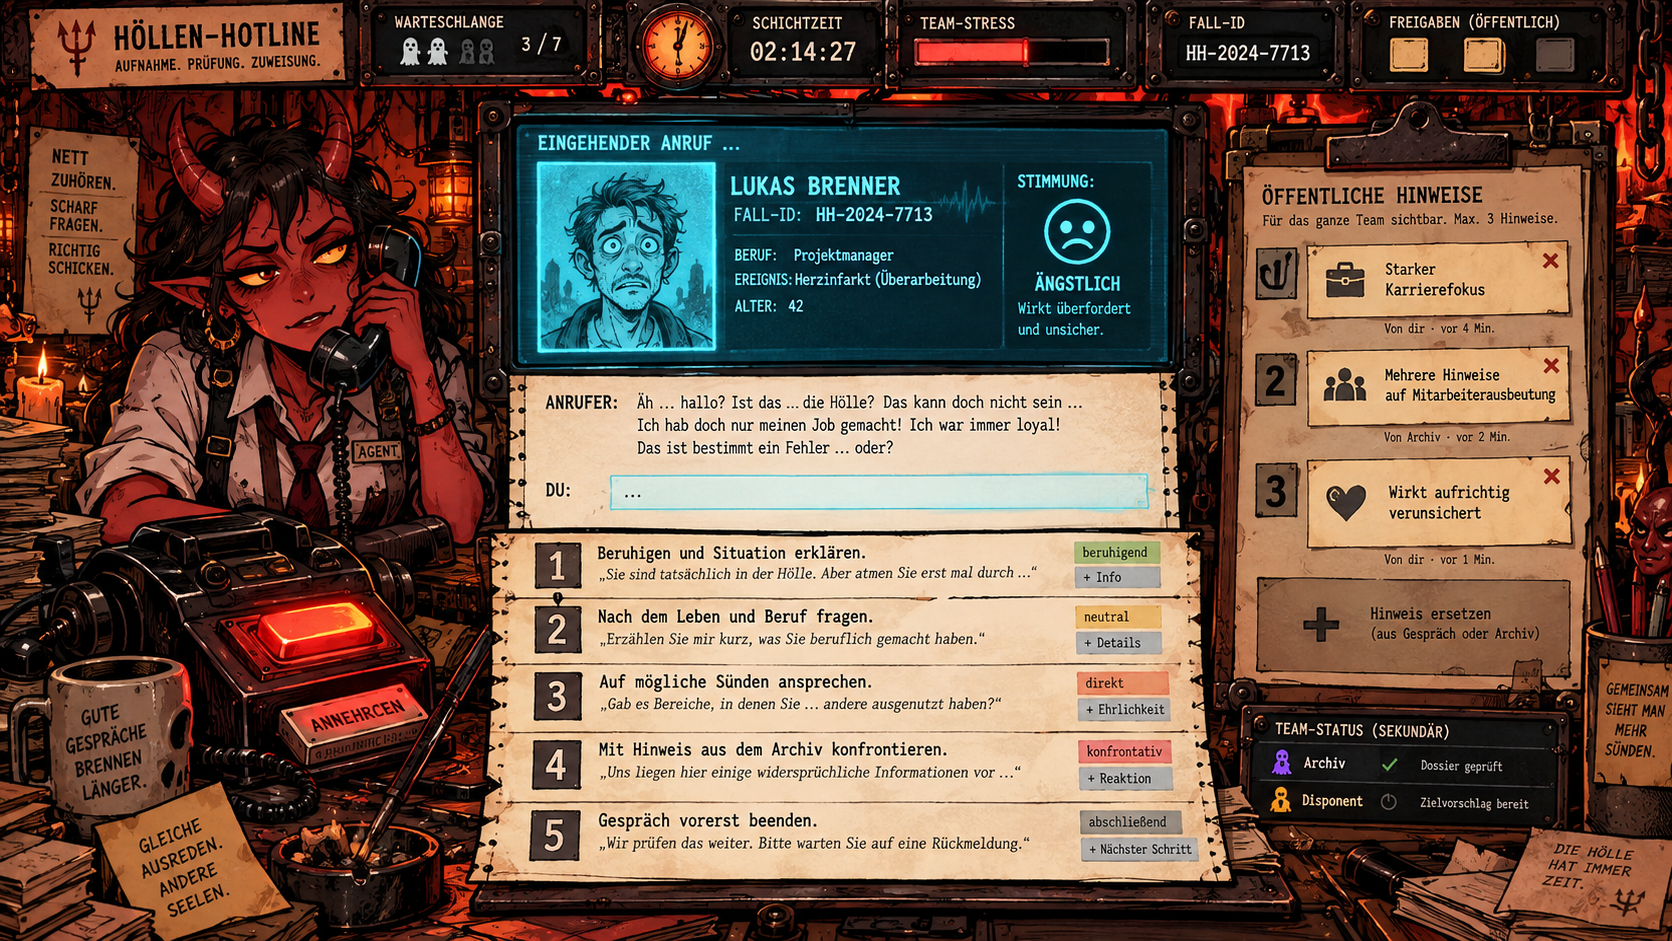
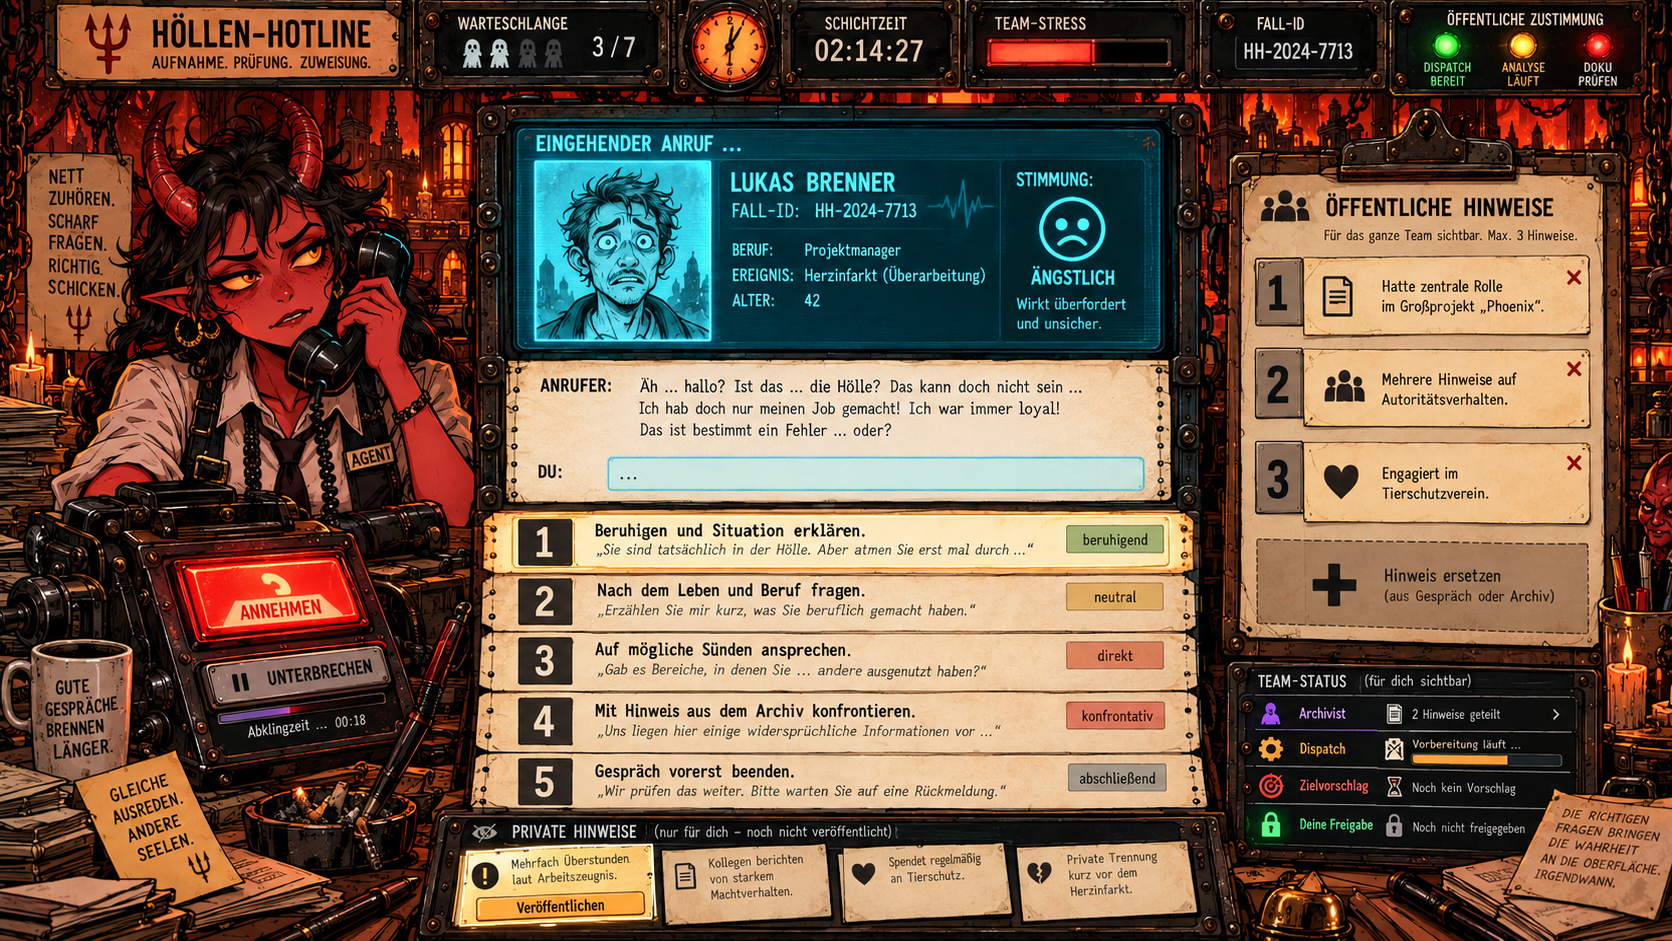
Update the lobby

diff --git a/src/game/presentation/lobbyRoom.ts b/src/game/presentation/lobbyRoom.ts
@@ -83,6 +83,36 @@ function ensureLavaTexture(scene: Phaser.Scene): string {
   return key;
 }
 
+function edgeConduit(
+  scene: Phaser.Scene,
+  parent: Phaser.GameObjects.Container,
+  x: number,
+): void {
+  const shaft = scene.add.graphics();
+  shaft.lineStyle(94, 0x09070c, 0.78);
+  shaft.lineBetween(x, 352, x, 1080);
+  shaft.lineStyle(69, 0x21181b);
+  shaft.lineBetween(x, 352, x, 1080);
+  shaft.lineStyle(55, 0x49302d);
+  shaft.lineBetween(x, 352, x, 1080);
+  shaft.lineStyle(35, 0x261c20);
+  shaft.lineBetween(x + 5, 352, x + 5, 1080);
+  shaft.lineStyle(5, 0xa95032, 0.75);
+  shaft.lineBetween(x - 22, 352, x - 22, 1080);
+  for (const y of [490, 698, 906]) {
+    shaft.fillStyle(0x140d13);
+    shaft.fillRoundedRect(x - 46, y - 17, 92, 34, 7);
+    shaft.fillStyle(0x50332e);
+    shaft.fillRoundedRect(x - 40, y - 13, 80, 26, 5);
+    shaft.lineStyle(3, 0xa95032, 0.7);
+    shaft.lineBetween(x - 35, y - 10, x + 35, y - 10);
+    shaft.fillStyle(0xb9673d);
+    shaft.fillCircle(x - 28, y, 3);
+    shaft.fillCircle(x + 28, y, 3);
+  }
+  parent.add(shaft);
+}
+
 function addLogo(
   scene: Phaser.Scene,
   parent: Phaser.GameObjects.Container,
@@ -91,72 +121,27 @@ function addLogo(
   waiting: Phaser.GameObjects.Container;
 } {
   const root = scene.add.container(960, 174);
-  const plate = scene.add.graphics();
-  plate.fillStyle(0x0b070c, 0.96);
-  plate.fillRoundedRect(-386, -105, 772, 210, 46);
-  plate.lineStyle(9, 0x2a1719, 1);
-  plate.strokeRoundedRect(-386, -105, 772, 210, 46);
-  plate.lineStyle(5, 0xd83a28, 1);
-  plate.strokeRoundedRect(-370, -89, 740, 178, 38);
-  plate.lineStyle(2, 0xff9b5e, 0.8);
-  plate.strokeRoundedRect(-358, -78, 716, 156, 31);
-  plate.fillStyle(0x1b0f13, 1);
-  plate.fillTriangle(-304, -88, -268, -145, -238, -82);
-  plate.fillTriangle(304, -88, 268, -145, 238, -82);
-  plate.lineStyle(5, 0xa92e24, 1);
-  plate.strokeTriangle(-304, -88, -268, -145, -238, -82);
-  plate.strokeTriangle(304, -88, 268, -145, 238, -82);
-
-  const skull = scene.add
-    .text(0, -96, "☠", {
-      fontFamily: "Georgia, serif",
-      fontSize: "40px",
-      color: "#ff6a38",
-    })
-    .setOrigin(0.5)
-    .setShadow(0, 0, "#ff4f29", 16, true, true);
-
-  const title = scene.add
-    .text(0, -22, "Höllen-Hotline", {
-      fontFamily: "Georgia, serif",
-      fontSize: "78px",
-      fontStyle: "bold",
-      color: "#ffc497",
-      stroke: "#6d161a",
-      strokeThickness: 9,
-    })
-    .setOrigin(0.5)
-    .setShadow(0, 0, "#ff4b2f", 20, true, true);
-
-  const subPlate = scene.add.graphics();
-  subPlate.fillStyle(0x5d1719, 0.98);
-  subPlate.fillRoundedRect(-214, 53, 428, 48, 15);
-  subPlate.lineStyle(3, 0xff7a4c, 1);
-  subPlate.strokeRoundedRect(-214, 53, 428, 48, 15);
-
-  const subtitle = scene.add
-    .text(-14, 77, "Bitte bleiben Sie dran", {
-      fontFamily: '"Trebuchet MS", Arial, sans-serif',
-      fontSize: "24px",
-      fontStyle: "bold",
-      color: "#ffe8cf",
-    })
-    .setOrigin(0.5);
-
-  const waiting = scene.add.container(171, 77);
+  const chains = [-306, 306].map((x) =>
+    scene.add
+      .image(x, -180, placeholderKey("chain"))
+      .setDisplaySize(35, 140)
+      .setOrigin(0.5, 0),
+  );
+  const sign = scene.add.image(0, 0, "lobby-sign").setDisplaySize(840, 360);
+  const waiting = scene.add.container(221, 103);
   for (let index = 0; index < 9; index++) {
     const angle = (Math.PI * 2 * index) / 9;
     const dot = scene.add.circle(
       Math.cos(angle) * 13,
       Math.sin(angle) * 13,
-      2.8,
+      3.5,
       0xffd1a0,
-      0.2 + index * 0.085,
+      0.28 + index * 0.075,
     );
     waiting.add(dot);
   }
 
-  root.add([plate, skull, title, subPlate, subtitle, waiting]);
+  root.add([...chains, sign, waiting]);
   parent.add(root);
   return { root, waiting };
 }
@@ -242,40 +227,28 @@ export function lobbyRoom(scene: Phaser.Scene): void {
   ).setAlpha(0.83);
   bridge.setTint(0xffe8df);
 
+  edgeConduit(scene, architecture.container, 136);
+  edgeConduit(scene, architecture.container, 1784);
   const leftPipe = placeholderImage(
     scene,
     architecture.container,
     "pipe",
-    112,
-    270,
-    260,
-    390,
+    82,
+    215,
+    330,
+    430,
   );
-  leftPipe.setRotation(-0.08);
+  leftPipe.setAlpha(0.92);
   const rightPipe = placeholderImage(
     scene,
     architecture.container,
     "pipe",
-    1812,
-    286,
-    250,
-    376,
+    1838,
+    215,
+    330,
+    430,
   );
-  rightPipe.setFlipX(true).setRotation(0.07);
-
-  const chains = [196, 520, 1400, 1715].map((x, index) => {
-    const chain = placeholderImage(
-      scene,
-      architecture.container,
-      "chain",
-      x,
-      128 + (index % 2) * 28,
-      58,
-      290,
-    );
-    chain.setOrigin(0.5, 0.12);
-    return chain;
-  });
+  rightPipe.setFlipX(true).setAlpha(0.92);
 
   const warningLights = [
     placeholderImage(
@@ -477,7 +450,6 @@ export function lobbyRoom(scene: Phaser.Scene): void {
     eyeBases.forEach(({ sprite, scaleY }) =>
       sprite.setScale(sprite.scaleX, scaleY),
     );
-    chains.forEach((chain) => chain.setRotation(0));
     warningLights.forEach((light) => light.setAlpha(0.86));
     lavaA.tilePositionY = lavaB.tilePositionY = 0;
     waiting.rotation = logo.rotation = 0;
@@ -531,9 +503,6 @@ export function lobbyRoom(scene: Phaser.Scene): void {
         : 1 - Math.sin(((blinkPhase - 4060) / 140) * Math.PI) * 0.92;
     eyeBases.forEach(({ sprite, scaleY }) =>
       sprite.setScale(sprite.scaleX, scaleY * blinkScale),
-    );
-    chains.forEach((chain, index) =>
-      chain.setRotation(Math.sin(seconds * 0.5 + index * 1.2) * 0.014),
     );
     actorBases.forEach(({ sprite, y, phase }) =>
       sprite.setY(y + Math.sin(seconds * 0.72 + phase) * 5.5),

diff --git a/e2e/navigation.spec.ts b/e2e/navigation.spec.ts
@@ -1,28 +1,24 @@
 import { test, expect } from "@playwright/test";
 
-test("title action opens the lobby", async ({ page }) => {
+test("desktop opens directly in the interactive lobby", async ({ page }) => {
   await page.goto("/");
   const canvas = page.locator("canvas");
-  await expect(canvas).toHaveAttribute("data-scene", "Title");
-  const box = await canvas.boundingBox();
-  expect(box).not.toBeNull();
-  await page.mouse.click(
-    box!.x + (960 / 1920) * box!.width,
-    box!.y + (430 / 1080) * box!.height,
-  );
   await expect(canvas).toHaveAttribute("data-scene", "Lobby");
+  await expect(page.getByRole("button", { name: "Zur Lobby →" })).toHaveCount(
+    0,
+  );
   await expect(
     page.getByRole("button", { name: /Lobby erstellen/ }),
   ).toBeVisible();
 });
 
-test("phone title action opens the lobby", async ({ page }) => {
+test("phone opens directly in the interactive lobby", async ({ page }) => {
   await page.setViewportSize({ width: 390, height: 844 });
   await page.goto("/");
-  const action = page.getByRole("button", { name: "Zur Lobby →" });
-  await expect(action).toBeVisible();
-  await action.click();
   await expect(page.locator("canvas")).toHaveAttribute("data-scene", "Lobby");
+  await expect(page.getByRole("button", { name: "Zur Lobby →" })).toHaveCount(
+    0,
+  );
   await expect(
     page.getByRole("button", { name: /Lobby erstellen/ }),
   ).toBeVisible();
@@ -45,9 +41,9 @@ test("scene navigation covers lobby, three roles and results", async ({
   await page.goto("/");
   const canvas = page.locator("canvas");
   await expect(canvas).toBeVisible();
-  await expect(canvas).toHaveAttribute("data-scene", "Title");
+  await expect(canvas).toHaveAttribute("data-scene", "Lobby");
   await pressNavigationKey("4");
-  await expect(canvas).toHaveAttribute("data-scene", "Title");
+  await expect(canvas).toHaveAttribute("data-scene", "Lobby");
   await pressNavigationKey("d");
   for (const [key, scene] of [
     ["2", "Lobby"],

diff --git a/e2e/lobby-art.spec.ts b/e2e/lobby-art.spec.ts
@@ -9,7 +9,7 @@ test("lobby motion follows live display preferences across scene changes", async
   await page.emulateMedia({ reducedMotion: "reduce" });
   await page.goto("/");
   const canvas = page.locator("canvas");
-  await expect(canvas).toHaveAttribute("data-scene", "Title");
+  await expect(canvas).toHaveAttribute("data-scene", "Lobby");
   await page.keyboard.press("d");
   await page.keyboard.press("2");
   await expect(page.locator(".lobby-card--welcome")).toBeVisible();
@@ -53,7 +53,7 @@ test("lobby illustration and controls fit desktop, phone and landscape", async (
   test.setTimeout(90_000);
   await page.emulateMedia({ reducedMotion: "reduce" });
   await page.goto("/");
-  await expect(page.locator("canvas")).toHaveAttribute("data-scene", "Title");
+  await expect(page.locator("canvas")).toHaveAttribute("data-scene", "Lobby");
   await page.keyboard.press("d");
   await page.keyboard.press("2");
   const create = page.getByRole("button", { name: /Lobby erstellen/ });

diff --git a/src/game/scenes/Boot.ts b/src/game/scenes/Boot.ts
@@ -5,6 +5,7 @@ import agentPortrait from "../../assets/generated/role-agent/clerk@2x.png?url";
 import archivistPortrait from "../../assets/generated/role-agent/map-folder@2x.png?url";
 import dispatcherPortrait from "../../assets/generated/role-agent/biscuit-auditor@2x.png?url";
 import titleRoom from "../../assets/title-room.webp?url";
+import lobbySign from "../../assets/lobby-sign.png?url";
 import agentOperator from "../../assets/agent-operator.webp?url";
 
 export class Boot extends Phaser.Scene {
@@ -18,9 +19,10 @@ export class Boot extends Phaser.Scene {
     this.load.image("role-figure-archivist", archivistPortrait);
     this.load.image("role-figure-dispatcher", dispatcherPortrait);
     this.load.image("title-room", titleRoom);
+    this.load.image("lobby-sign", lobbySign);
     this.load.image("agent-operator", agentOperator);
   }
   create(): void {
-    this.scene.start(location.hash ? "Lobby" : "Title");
+    this.scene.start("Lobby");
   }
 }

diff --git a/e2e/accessibility.spec.ts b/e2e/accessibility.spec.ts
@@ -6,7 +6,7 @@ test("display options remain usable at a small viewport and persist", async ({
   test.setTimeout(90_000);
   await page.setViewportSize({ width: 640, height: 360 });
   await page.goto("/");
-  await expect(page.locator("canvas")).toHaveAttribute("data-scene", "Title");
+  await expect(page.locator("canvas")).toHaveAttribute("data-scene", "Lobby");
   await page.keyboard.press("o");
   const dialog = page.getByRole("dialog", { name: "Darstellungsoptionen" });
   await expect(dialog).toBeVisible();
@@ -19,7 +19,7 @@ test("display options remain usable at a small viewport and persist", async ({
     "contrast",
   );
   await page.reload();
-  await expect(page.locator("canvas")).toHaveAttribute("data-scene", "Title");
+  await expect(page.locator("canvas")).toHaveAttribute("data-scene", "Lobby");
   await expect(page.locator("html")).toHaveAttribute(
     "data-palette",
     "contrast",

diff --git a/e2e/modes.spec.ts b/e2e/modes.spec.ts
@@ -5,7 +5,7 @@ test("host configures free play and sees registered campaign scenarios", async (
   page,
 }) => {
   await page.goto("/");
-  await expect(page.locator("canvas")).toHaveAttribute("data-scene", "Title");
+  await expect(page.locator("canvas")).toHaveAttribute("data-scene", "Lobby");
   await page.keyboard.press("d");
   await page.keyboard.press("2");
   await page.getByRole("button", { name: "Lobby erstellen" }).click();
@@ -49,7 +49,7 @@ test(
     const context = await browser.newContext();
     const host = await context.newPage();
     await host.goto("/");
-    await expect(host.locator("canvas")).toHaveAttribute("data-scene", "Title");
+    await expect(host.locator("canvas")).toHaveAttribute("data-scene", "Lobby");
     await host.keyboard.press("d");
     await host.keyboard.press("2");
     await host.getByRole("button", { name: "Lobby erstellen" }).click();

diff --git a/src/game/scenes/Game.ts b/src/game/scenes/Game.ts
@@ -80,14 +80,14 @@ export class Game extends Phaser.Scene {
         if (!this.network) this.scene.start("Results");
         else if (this.network.isHost && !shiftEnded())
           this.network.submit({ kind: "ABANDON" });
-        else this.scene.start("Title");
+        else this.scene.start("Lobby");
       },
       C.dispatcher,
       260,
       48,
     );
     const unsubscribeExit = this.network?.subscribe(() => {
-      if (shiftEnded()) exitButton.setText("ZUM TITEL");
+      if (shiftEnded()) exitButton.setText("ZUR LOBBY");
     });
     if (this.network) this.overlay = new GameNetworkOverlay(this.network);
     if (this.network && this.role === "agent")

diff --git a/e2e/mixed-browsers.spec.ts b/e2e/mixed-browsers.spec.ts
@@ -12,7 +12,7 @@ test("Chromium host and guest connect with a Firefox guest", async ({
     const host = await chromiumBrowser.newPage();
     const guests = [await browser.newPage(), await chromiumBrowser.newPage()];
     await host.goto(baseURL!);
-    await expect(host.locator("canvas")).toHaveAttribute("data-scene", "Title");
+    await expect(host.locator("canvas")).toHaveAttribute("data-scene", "Lobby");
     await host.keyboard.press("d");
     await host.keyboard.press("2");
     await host.getByRole("button", { name: "Lobby erstellen" }).click();

diff --git a/e2e/workspaces.spec.ts b/e2e/workspaces.spec.ts
@@ -43,7 +43,7 @@ test("mockup workspaces load their separate sprites in all three role previews",
   await page.setViewportSize({ width: 1672, height: 941 });
   await page.goto("/");
   const canvas = page.locator("canvas");
-  await expect(canvas).toHaveAttribute("data-scene", "Title");
+  await expect(canvas).toHaveAttribute("data-scene", "Lobby");
   // The module imports and the texture loader may both request a source.
   expect(sprites.has("dial-pointer")).toBe(true);
   expect(sprites.has("switch-handle")).toBe(true);

diff --git a/e2e/private-lobby.spec.ts b/e2e/private-lobby.spec.ts
@@ -84,7 +84,7 @@ async function playPrivateShift(
   const context = await browser.newContext();
   const host = await context.newPage();
   await host.goto("/");
-  await expect(host.locator("canvas")).toHaveAttribute("data-scene", "Title");
+  await expect(host.locator("canvas")).toHaveAttribute("data-scene", "Lobby");
   await host.keyboard.press("d");
   await host.keyboard.press("2");
   await host.getByRole("button", { name: "Lobby erstellen" }).click();

diff --git a/e2e/one-link.spec.ts b/e2e/one-link.spec.ts
@@ -5,7 +5,7 @@ test("one invite link connects two guests and starts a shift", async ({
 }) => {
   const host = await context.newPage();
   await host.goto("/");
-  await expect(host.locator("canvas")).toHaveAttribute("data-scene", "Title");
+  await expect(host.locator("canvas")).toHaveAttribute("data-scene", "Lobby");
   await host.keyboard.press("d");
   await host.keyboard.press("2");
   await host.getByRole("button", { name: "Lobby erstellen" }).click();

diff --git a/e2e/pages-base.spec.ts b/e2e/pages-base.spec.ts
@@ -21,7 +21,7 @@ test("built Pages subpath loads assets, legal pages and invite links", async ({
       loadedProps.add(url.pathname.split("/").at(-1)!.split("-")[0]!);
   });
   await page.goto(base);
-  await expect(page.locator("canvas")).toHaveAttribute("data-scene", "Title");
+  await expect(page.locator("canvas")).toHaveAttribute("data-scene", "Lobby");
   await page.keyboard.press("d");
   await page.keyboard.press("2");
   await expect(
